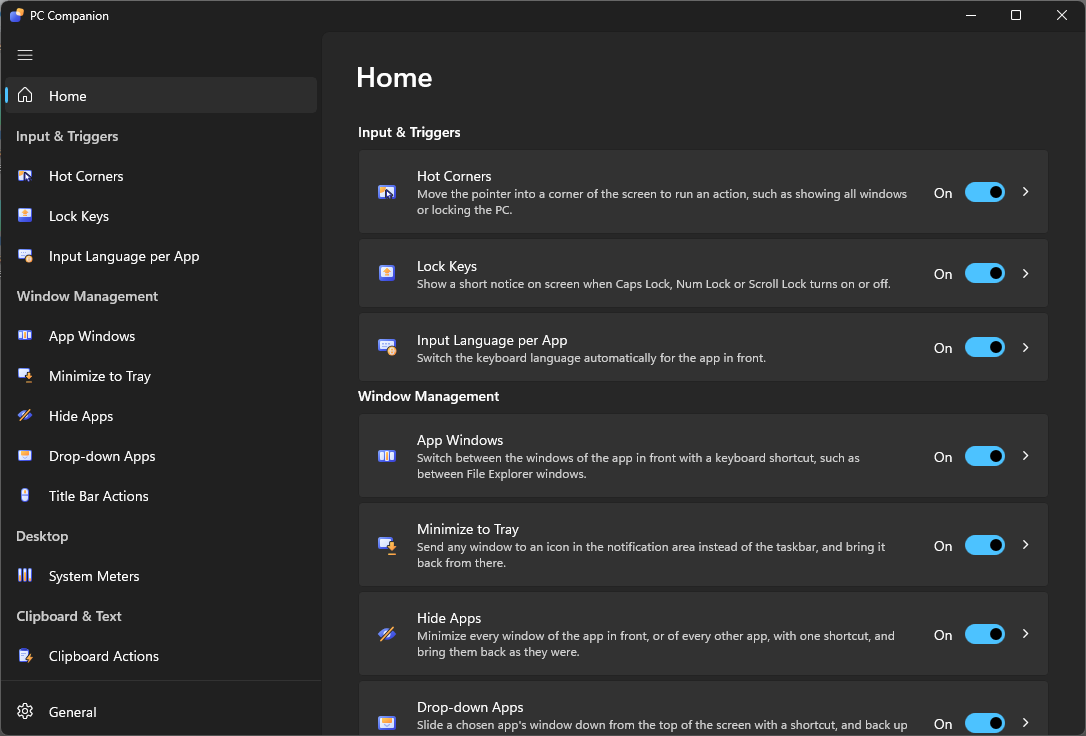
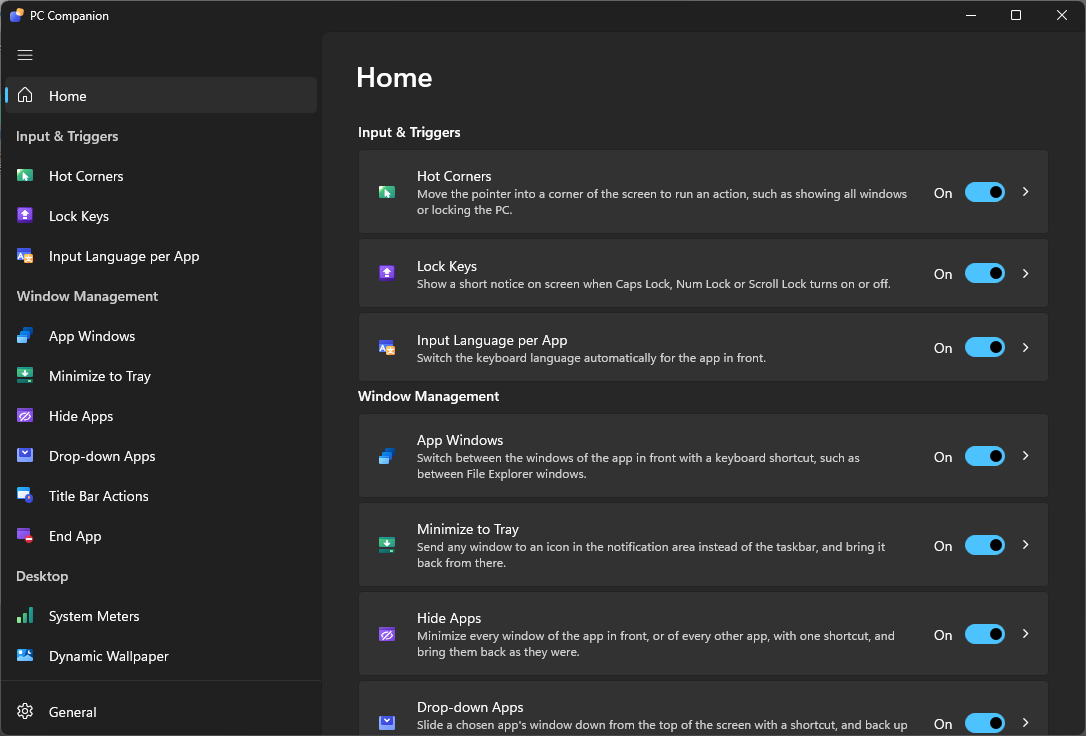
docs(website): describe the 0.6.0 features, with their screenshots
The site describes the 0.6.0 release: rows for End App, Dynamic Wallpaper and
Middle-Click Paste, in the order of the settings app's navigation pane, so the
rows after each swap sides, Selected text in Clipboard Actions' row, and the
update dot in General's. Only the new and changed pages' screenshots are taken
again from the release's installer: Home, Clipboard Actions and the three new
pages. The other feature pages keep their screenshots, with the header icons
drawn before 0.6.0.

diff --git a/website/index.html b/website/index.html
@@ -233,7 +233,25 @@
           </div>
         </article>
 
-        <article class="feature" aria-labelledby="system-meters-title">
+        <article class="feature" aria-labelledby="end-app-title">
+          <div class="feature-text">
+            <p class="eyebrow">Window Management</p>
+            <h3 id="end-app-title">End App</h3>
+            <p>Press <kbd>Ctrl</kbd> + <kbd>Alt</kbd> + <kbd>Esc</kbd>, click the window of an app that stopped responding, confirm, and PC Companion ends that app. Inspired by <kbd>Ctrl</kbd> + <kbd>Alt</kbd> + <kbd>Esc</kbd> in KDE Plasma and Force Quit in macOS.</p>
+            <ul class="points">
+              <li>Or choose <strong>End an app…</strong> in the PC Companion icon's menu. A red frame shows the app under the pointer, and <kbd>Tab</kbd> moves it through the windows on the taskbar.</li>
+              <li>The question names the app and how many processes end. For an app that still responds, <strong>Cancel</strong> is the default, with a note to close it as usual.</li>
+              <li>Ends the app with its helper processes, such as a browser's, and leaves other copies of the program running.</li>
+              <li>Never ends PC Companion, File Explorer or Windows' own programs, and offers <strong>Open Task Manager</strong> instead.</li>
+            </ul>
+          </div>
+          <div class="shot">
+            <img class="shot-light" src="images/end-app-light.png" width="763" height="598" loading="lazy" alt="The End App page, with Ctrl + Alt + Esc as the shortcut, how to choose an app, and which apps can't be ended.">
+            <img class="shot-dark" src="images/end-app-dark.png" width="763" height="598" loading="lazy" alt="The End App page, with Ctrl + Alt + Esc as the shortcut, how to choose an app, and which apps can't be ended.">
+          </div>
+        </article>
+
+        <article class="feature feature-reverse" aria-labelledby="system-meters-title">
           <div class="feature-text">
             <p class="eyebrow">Desktop</p>
             <h3 id="system-meters-title">System Meters</h3>
@@ -251,6 +269,24 @@
           </div>
         </article>
 
+        <article class="feature" aria-labelledby="dynamic-wallpaper-title">
+          <div class="feature-text">
+            <p class="eyebrow">Desktop</p>
+            <h3 id="dynamic-wallpaper-title">Dynamic Wallpaper</h3>
+            <p>Change the desktop picture with the time of day: at sunrise and sunset, at times you choose, or with the Windows mode, light or dark. Inspired by the dynamic desktop of macOS, GNOME's timed and light-and-dark wallpapers and KDE Plasma's day and night wallpapers.</p>
+            <ul class="points">
+              <li>Sunrise and sunset are worked out on your PC, from your time zone, or from coordinates you type or fill in once with <strong>Use my location</strong>.</li>
+              <li>Each part of the day gets a picture, or a folder whose pictures each show once, in a shuffled order. Each display can have pictures of its own.</li>
+              <li>Windows shows and fits the pictures as it does yours, and your own background comes back when you turn the feature off.</li>
+              <li>Steps aside when something else changes the background, until you select <strong>Resume</strong>.</li>
+            </ul>
+          </div>
+          <div class="shot">
+            <img class="shot-light" src="images/dynamic-wallpaper-light.png" width="763" height="682" loading="lazy" alt="The Dynamic Wallpaper page, changing with sunrise and sunset, with a picture for Sunrise, Day, in use, Sunset and Night.">
+            <img class="shot-dark" src="images/dynamic-wallpaper-dark.png" width="763" height="682" loading="lazy" alt="The Dynamic Wallpaper page, changing with sunrise and sunset, with a picture for Sunrise, Day, in use, Sunset and Night.">
+          </div>
+        </article>
+
         <article class="feature feature-reverse" aria-labelledby="clipboard-actions-title">
           <div class="feature-text">
             <p class="eyebrow">Clipboard &amp; Text</p>
@@ -260,16 +296,35 @@
               <li>The menu opens at the text cursor and starts with the copied text, so you see what the action gets.</li>
               <li>Make your own rules: a pattern the copied text matches, and a web address to open with the text in it, or a program to run with it.</li>
               <li><strong>Open in browser</strong> for a copied web link, with no rule needed.</li>
-              <li>Reads the clipboard only when you press the shortcut, leaves alone what password managers mark private, and never keeps or sends the text.</li>
+              <li><strong>Selected text:</strong> <kbd>Windows</kbd> + <kbd>Alt</kbd> + <kbd>S</kbd> shows the same actions for the text you selected, without copying it.</li>
+              <li>Reads the clipboard or the selection only when you press the shortcut, never from a password box, leaves alone what password managers mark private, and never keeps or sends the text.</li>
             </ul>
           </div>
           <div class="shot">
-            <img class="shot-light" src="images/clipboard-actions-light.png" width="763" height="624" loading="lazy" alt="The Clipboard Actions page, with the shortcut, Open copied links, and two rules: one opens a parcel tracking page, the other opens a copied link in a private browser window.">
-            <img class="shot-dark" src="images/clipboard-actions-dark.png" width="763" height="624" loading="lazy" alt="The Clipboard Actions page, with the shortcut, Open copied links, and two rules: one opens a parcel tracking page, the other opens a copied link in a private browser window.">
+            <img class="shot-light" src="images/clipboard-actions-light.png" width="763" height="645" loading="lazy" alt="The Clipboard Actions page, with the shortcut, Selected text, Open copied links, and two rules: one opens a parcel tracking page, the other opens a copied link in a private browser window.">
+            <img class="shot-dark" src="images/clipboard-actions-dark.png" width="763" height="645" loading="lazy" alt="The Clipboard Actions page, with the shortcut, Selected text, Open copied links, and two rules: one opens a parcel tracking page, the other opens a copied link in a private browser window.">
           </div>
         </article>
 
-        <article class="feature" aria-labelledby="network-profiles-title">
+        <article class="feature" aria-labelledby="middle-click-paste-title">
+          <div class="feature-text">
+            <p class="eyebrow">Clipboard &amp; Text</p>
+            <h3 id="middle-click-paste-title">Middle-Click Paste</h3>
+            <p>Select text in any app, then middle-click in a text box: the text goes in where the pointer is, without the clipboard. Inspired by the middle-click paste of Linux desktops, such as GNOME and KDE Plasma.</p>
+            <ul class="points">
+              <li>The clipboard is never read or changed, so what you copied stays there, and clipboard history never sees the text.</li>
+              <li>Only a middle-click on a text box pastes, so links, tabs, scrolling and title bars keep their middle-click. Apps you list keep all of theirs.</li>
+              <li>One <kbd>Ctrl</kbd> + <kbd>Z</kbd> takes a paste out, and when nothing can be pasted, a short notice at the pointer says why.</li>
+              <li>Reads the selection only at the middle-click, never from a password box, and leaves terminals alone.</li>
+            </ul>
+          </div>
+          <div class="shot">
+            <img class="shot-light" src="images/middle-click-paste-light.png" width="763" height="659" loading="lazy" alt="The Middle-Click Paste page, with how it works, Firefox among the apps that keep their middle-click, and notes about apps that share their selection.">
+            <img class="shot-dark" src="images/middle-click-paste-dark.png" width="763" height="659" loading="lazy" alt="The Middle-Click Paste page, with how it works, Firefox among the apps that keep their middle-click, and notes about apps that share their selection.">
+          </div>
+        </article>
+
+        <article class="feature feature-reverse" aria-labelledby="network-profiles-title">
           <div class="feature-text">
             <p class="eyebrow">Network</p>
             <h3 id="network-profiles-title">Network Profiles</h3>
@@ -287,7 +342,7 @@
           </div>
         </article>
 
-        <article class="feature feature-reverse" aria-labelledby="folder-rules-title">
+        <article class="feature" aria-labelledby="folder-rules-title">
           <div class="feature-text">
             <p class="eyebrow">Files</p>
             <h3 id="folder-rules-title">Folder Rules</h3>
@@ -305,7 +360,7 @@
           </div>
         </article>
 
-        <article class="feature" aria-labelledby="drive-actions-title">
+        <article class="feature feature-reverse" aria-labelledby="drive-actions-title">
           <div class="feature-text">
             <p class="eyebrow">Files</p>
             <h3 id="drive-actions-title">Drive Actions</h3>
@@ -323,7 +378,7 @@
           </div>
         </article>
 
-        <article class="feature feature-reverse" aria-labelledby="display-profiles-title">
+        <article class="feature" aria-labelledby="display-profiles-title">
           <div class="feature-text">
             <p class="eyebrow">Display</p>
             <h3 id="display-profiles-title">Display Profiles</h3>
@@ -341,14 +396,14 @@
           </div>
         </article>
 
-        <article class="feature" aria-labelledby="general-title">
+        <article class="feature feature-reverse" aria-labelledby="general-title">
           <div class="feature-text">
             <p class="eyebrow">General</p>
             <h3 id="general-title">Made to fit Windows</h3>
             <p>The settings app is laid out like Windows Settings, follows your light or dark mode, and works with the keyboard and screen readers.</p>
             <ul class="points">
               <li><strong>Always run as administrator</strong> lets features work in front of apps that run as administrator, when PC Companion is installed for all users.</li>
-              <li><strong>Update check:</strong> once a day, PC Companion tells you when a newer version is out. Check now, or turn it off.</li>
+              <li><strong>Update check:</strong> once a day, PC Companion tells you when a newer version is out, with a dot on its icon until you look. Check now, or turn it off.</li>
               <li>Choose the language and theme, start with Windows, and open the logs when you report a problem.</li>
             </ul>
           </div>
